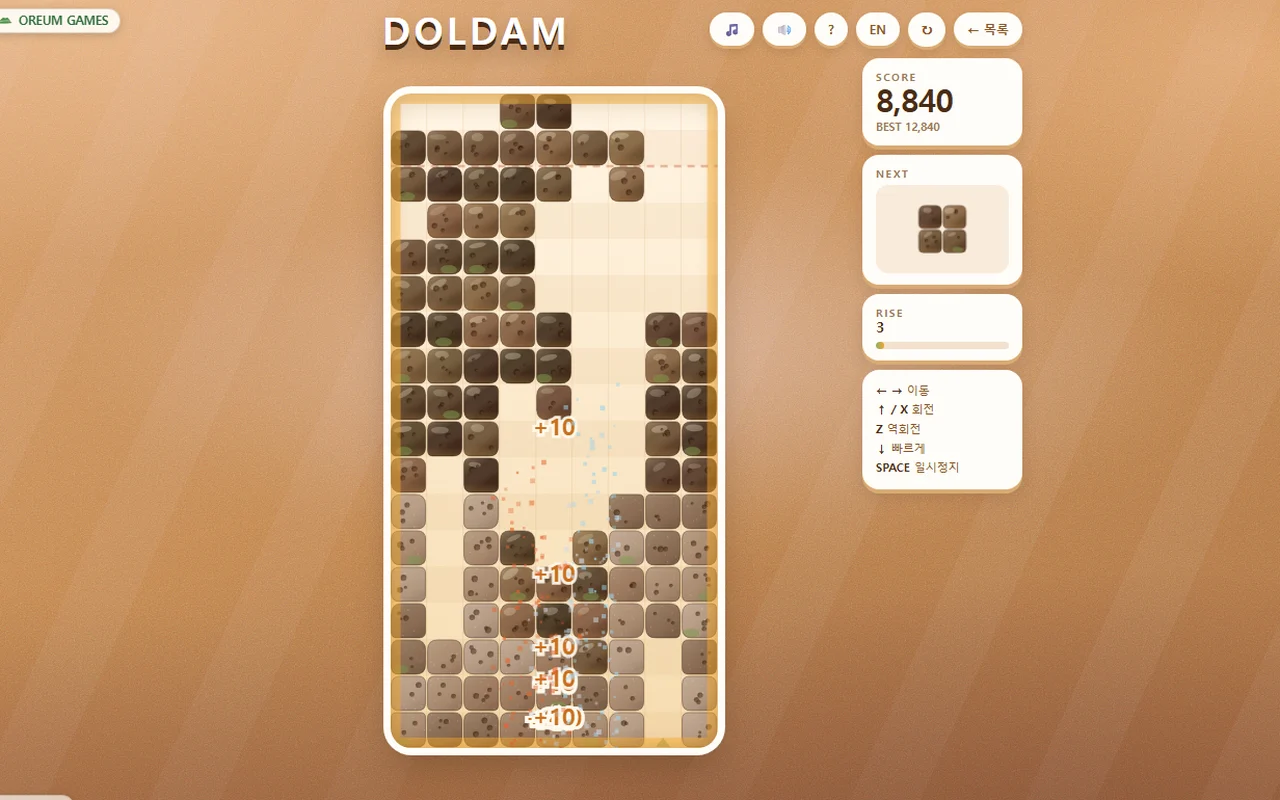
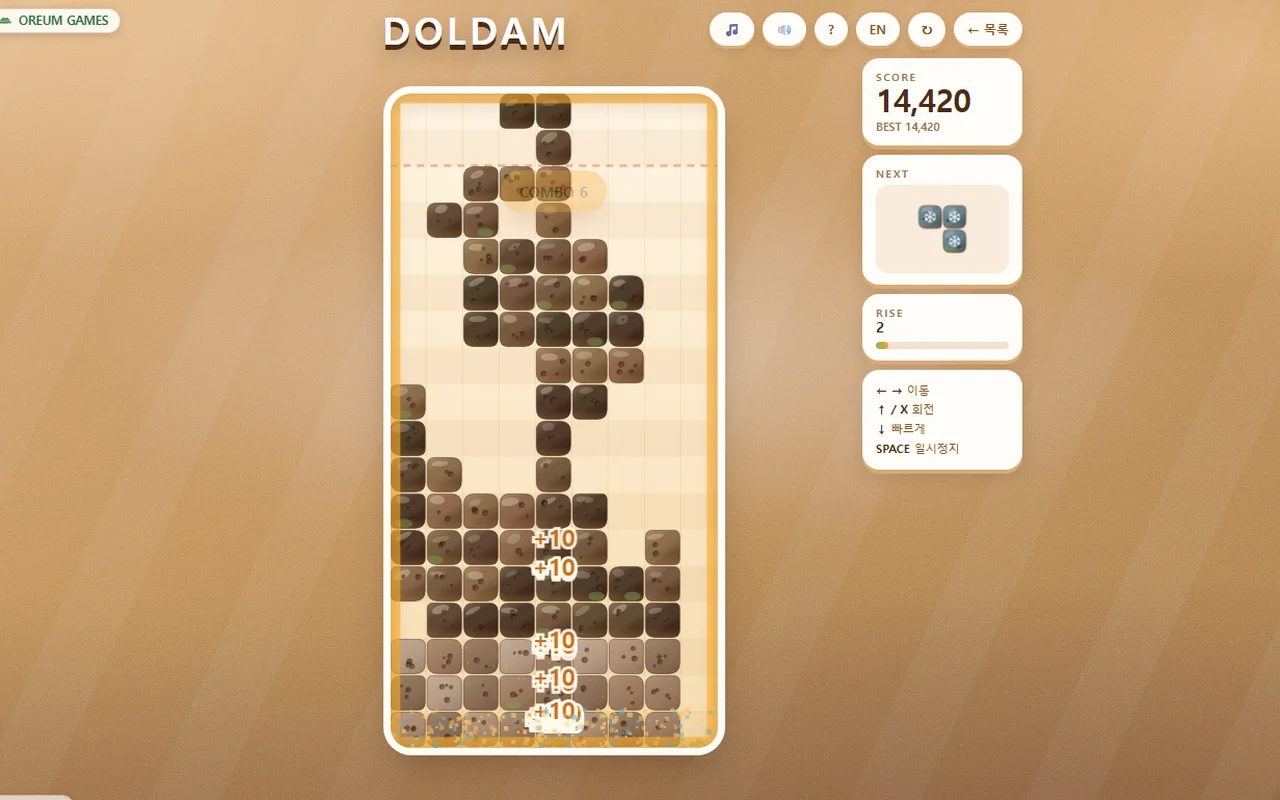
돌담 카드 그림을 역회전 뺀 화면으로 다시 찍음
앞 커밋에서 역회전을 없앴는데, 카드 그림은 그 전에 찍은 것이라
키 설명에 Z 역회전(영문 Z counter)이 그대로 남아 있었다.
지금 게임에 없는 항목이라 또 옛 화면이 된 셈이다.

한글·영문 두 장을 지금 코드로 다시 찍었다. 키 설명이
이동 / 회전 / 빠르게 / 일시정지 네 줄로 맞다.
판 번호도 v=2 에서 v=3 으로 올렸다.

diff --git a/games/mini/doldam/index.html b/games/mini/doldam/index.html
@@ -91,7 +91,7 @@
   <section class="showcase">
     <div class="wrap game-page">
       <a class="backlink" href="/games/mini/">← 미니게임 목록</a>
-      <div class="gp-shot"><img src="/assets/doldam-shot.webp?v=2" alt="흙빛 판 위에 검은 블록이 쌓여 있고, 다 채워진 한 줄이 금빛 테두리로 빛나고 있다" width="800" height="500"></div>
+      <div class="gp-shot"><img src="/assets/doldam-shot.webp?v=3" alt="흙빛 판 위에 검은 블록이 쌓여 있고, 다 채워진 한 줄이 금빛 테두리로 빛나고 있다" width="800" height="500"></div>
       <h1>돌담 DOLDAM</h1>
       <p class="gp-line">가로줄을 채우면 바로 사라지지 않고 잠깁니다. 잠긴 줄은 다음 블록을 놓는 순간 무너지고,
               그 사이에 위에 더 쌓아두면 무너질 때 통째로 내려앉으면서 COMBO가 터집니다.

diff --git a/en/games/mini/doldam/index.html b/en/games/mini/doldam/index.html
@@ -91,7 +91,7 @@
   <section class="showcase">
     <div class="wrap game-page">
       <a class="backlink" href="/en/games/mini/">← All mini games</a>
-      <div class="gp-shot"><img src="/assets/doldam-shot-en.webp?v=2" alt="Black blocks stacked on a sandy board, one completed row glowing with a gold outline" width="800" height="500"></div>
+      <div class="gp-shot"><img src="/assets/doldam-shot-en.webp?v=3" alt="Black blocks stacked on a sandy board, one completed row glowing with a gold outline" width="800" height="500"></div>
       <h1>DOLDAM</h1>
       <p class="gp-line">Fill a row and it locks instead of clearing. It collapses when you place the next block, chaining COMBOs.
               BOMB, LASER, GRAVITY, BURN and SWEEP tear the board open. Empty it completely for a PERFECT CLEAR.</p>

diff --git a/index.html b/index.html
@@ -349,7 +349,7 @@
           <span class="mbody"><b>오름냥</b><i>고양이 3매치 · 200판</i></span>
         </a>
         <a class="mini" href="/games/mini/doldam/">
-          <span class="shot"><img src="/assets/doldam-shot.webp?v=2" alt="" width="800" height="500" loading="lazy"><span class="kind">MINI</span></span>
+          <span class="shot"><img src="/assets/doldam-shot.webp?v=3" alt="" width="800" height="500" loading="lazy"><span class="kind">MINI</span></span>
           <span class="mbody"><b>돌담 DOLDAM</b><i>특수 블록이 터지는 블록 퍼즐</i></span>
         </a>
         <a class="mini" href="/games/mini/slip-cat/">

diff --git a/games/index.html b/games/index.html
@@ -83,7 +83,7 @@
           <span class="mbody"><b>오름냥</b><i>고양이 3매치 · 200판</i></span>
         </a>
         <a class="mini" href="/games/mini/doldam/">
-          <span class="shot"><img src="/assets/doldam-shot.webp?v=2" alt="" width="800" height="500" loading="lazy"><span class="kind">MINI</span></span>
+          <span class="shot"><img src="/assets/doldam-shot.webp?v=3" alt="" width="800" height="500" loading="lazy"><span class="kind">MINI</span></span>
           <span class="mbody"><b>돌담 DOLDAM</b><i>특수 블록이 터지는 블록 퍼즐</i></span>
         </a>
         <a class="mini" href="/games/mini/slip-cat/">

diff --git a/en/games/index.html b/en/games/index.html
@@ -80,7 +80,7 @@
           <span class="mbody"><b>Oreumnyang</b><i>Match-3 puzzle · 200 stages</i></span>
         </a>
         <a class="mini" href="/en/games/mini/doldam/">
-          <span class="shot"><img src="/assets/doldam-shot-en.webp?v=2" alt="" width="800" height="500" loading="lazy"><span class="kind">MINI</span></span>
+          <span class="shot"><img src="/assets/doldam-shot-en.webp?v=3" alt="" width="800" height="500" loading="lazy"><span class="kind">MINI</span></span>
           <span class="mbody"><b>DOLDAM</b><i>Block puzzle with special blocks</i></span>
         </a>
         <a class="mini" href="/en/games/mini/slip-cat/">

diff --git a/games/mini/index.html b/games/mini/index.html
@@ -376,7 +376,7 @@
         </li>
         <li class="card" id="doldam">
           <a class="card-shot" href="doldam/">
-            <img src="/assets/doldam-shot.webp?v=2" alt="흙빛 판 위에 검은 블록이 쌓여 있고, 다 채워진 한 줄이 금빛 테두리로 빛나고 있다" loading="lazy" width="800" height="500">
+            <img src="/assets/doldam-shot.webp?v=3" alt="흙빛 판 위에 검은 블록이 쌓여 있고, 다 채워진 한 줄이 금빛 테두리로 빛나고 있다" loading="lazy" width="800" height="500">
           </a>
           <div class="card-body">
             <h3><a href="doldam/">돌담 DOLDAM</a></h3>

diff --git a/en/games/mini/index.html b/en/games/mini/index.html
@@ -129,7 +129,7 @@
         </li>
         <li class="card" id="doldam">
           <a class="card-shot" href="/en/games/mini/doldam/">
-            <img src="/assets/doldam-shot-en.webp?v=2" alt="Black blocks stacked on a sandy board, one completed row glowing with a gold outline" loading="lazy" width="800" height="500">
+            <img src="/assets/doldam-shot-en.webp?v=3" alt="Black blocks stacked on a sandy board, one completed row glowing with a gold outline" loading="lazy" width="800" height="500">
           </a>
           <div class="card-body">
             <h3><a href="/en/games/mini/doldam/">DOLDAM</a></h3>
